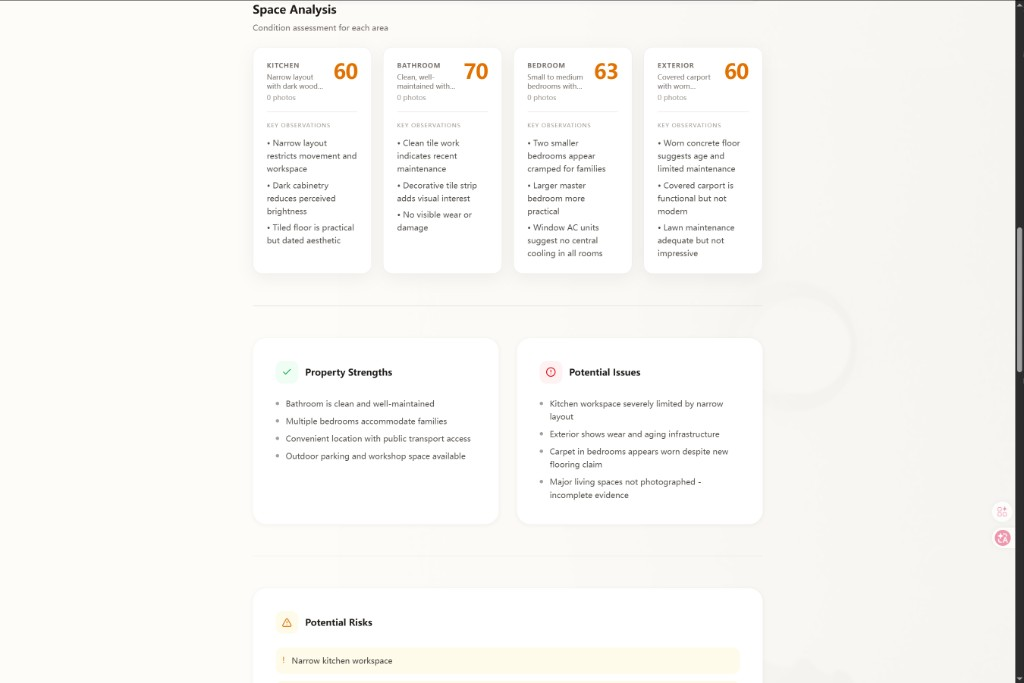
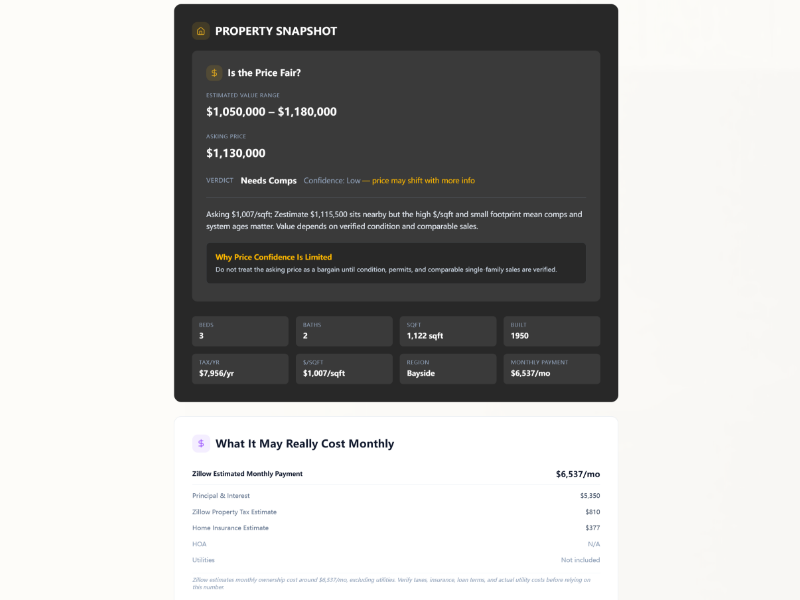
更新定价文案和预览图片

diff --git a/src/pages/Home.tsx b/src/pages/Home.tsx
@@ -19,12 +19,12 @@ const PRODUCTS = [
   {
     id: 'starter',
     title: 'Starter',
-    price: 'US$9.99',
-    reportCount: '1 FULL REPORT',
-    description: 'Best for checking one property before booking a showing.',
+    price: '$9.99',
+    reportCount: '1 FULL PROPERTY REPORT',
+    description: 'Best for checking one property before you spend time on a showing.',
     features: [
-      'Full property risk analysis',
-      'Photo & space analysis',
+      'Full listing risk review',
+      'Photo & condition review',
       'Price confidence check',
       'Questions to ask the agent',
     ],
@@ -34,14 +34,14 @@ const PRODUCTS = [
   {
     id: 'standard',
     title: 'Standard',
-    price: 'US$19.99',
-    reportCount: '3 FULL REPORTS',
-    description: 'Best for buyers with a few homes on their shortlist.',
+    price: '$19.99',
+    reportCount: '3 FULL PROPERTY REPORTS',
+    description: 'Best for buyers reviewing a few homes on their shortlist.',
     features: [
       'Everything in Starter',
       'Lower cost per report',
-      'Saved report access',
-      'Shareable report link',
+      'Save reports for later review',
+      'Shareable report links',
     ],
     buttonText: 'Buy 3 Reports',
     isPopular: true,
@@ -49,14 +49,14 @@ const PRODUCTS = [
   {
     id: 'pro',
     title: 'Pro',
-    price: 'US$49.99',
-    reportCount: '10 FULL REPORTS',
-    description: 'Best for active buyers searching across multiple listings.',
+    price: '$49.99',
+    reportCount: '10 FULL PROPERTY REPORTS',
+    description: 'Best for active buyers reviewing many listings during a serious home search.',
     features: [
       'Everything in Standard',
-      'Best value per report',
       'Lowest cost per report',
-      'Useful for serious home searches',
+      'More reports for active searching',
+      'Review more properties before you tour',
     ],
     buttonText: 'Buy 10 Reports',
     isPopular: false,
@@ -706,10 +706,10 @@ export function Home() {
         <div className="mb-16 animate-in fade-in slide-in-from-bottom-8 duration-700 ease-out">
           <div className="text-center mb-10">
             <h2 className="text-center text-sm font-semibold uppercase tracking-widest text-stone-500 mb-4">
-              One Report Can Save You Thousands
+              Spot Costly Property Risks Before You Tour
             </h2>
             <p className="text-center text-stone-400 font-light mb-8">
-              Avoid bad purchases, save time, and make confident home buying decisions.
+              Review listing risks, photo signals, price confidence, and key questions before you book a showing.
             </p>
           </div>
           <div className="grid grid-cols-1 md:grid-cols-3 gap-6 md:gap-8 max-w-5xl mx-auto">

diff --git a/src/pages/Pricing.tsx b/src/pages/Pricing.tsx
@@ -13,12 +13,12 @@ const PRODUCTS = [
   {
     id: 'starter',
     title: 'Starter',
-    price: 'US$9.99',
-    reportCount: '1 FULL REPORT',
-    description: 'Best for checking one property before booking a showing.',
+    price: '$9.99',
+    reportCount: '1 FULL PROPERTY REPORT',
+    description: 'Best for checking one property before you spend time on a showing.',
     features: [
-      'Full property risk analysis',
-      'Photo & space analysis',
+      'Full listing risk review',
+      'Photo & condition review',
       'Price confidence check',
       'Questions to ask the agent',
     ],
@@ -28,14 +28,14 @@ const PRODUCTS = [
   {
     id: 'standard',
     title: 'Standard',
-    price: 'US$19.99',
-    reportCount: '3 FULL REPORTS',
-    description: 'Best for buyers with a few homes on their shortlist.',
+    price: '$19.99',
+    reportCount: '3 FULL PROPERTY REPORTS',
+    description: 'Best for buyers reviewing a few homes on their shortlist.',
     features: [
       'Everything in Starter',
       'Lower cost per report',
-      'Saved report access',
-      'Shareable report link',
+      'Save reports for later review',
+      'Shareable report links',
     ],
     buttonText: 'Buy 3 Reports',
     isPopular: true,
@@ -43,14 +43,14 @@ const PRODUCTS = [
   {
     id: 'pro',
     title: 'Pro',
-    price: 'US$49.99',
-    reportCount: '10 FULL REPORTS',
-    description: 'Best for active buyers searching across multiple listings.',
+    price: '$49.99',
+    reportCount: '10 FULL PROPERTY REPORTS',
+    description: 'Best for active buyers reviewing many listings during a serious home search.',
     features: [
       'Everything in Standard',
-      'Best value per report',
       'Lowest cost per report',
-      'Useful for serious home searches',
+      'More reports for active searching',
+      'Review more properties before you tour',
     ],
     buttonText: 'Buy 10 Reports',
     isPopular: false,

diff --git a/src/components/PricingCard.tsx b/src/components/PricingCard.tsx
@@ -86,6 +86,9 @@ export function PricingCard({
           {isLoading ? 'Processing...' : buttonText}
         </span>
       </button>
+      <p className="text-[11px] text-[#a8a29e] text-center mt-2">
+        Taxes may apply at checkout.
+      </p>
     </div>
   );
 }